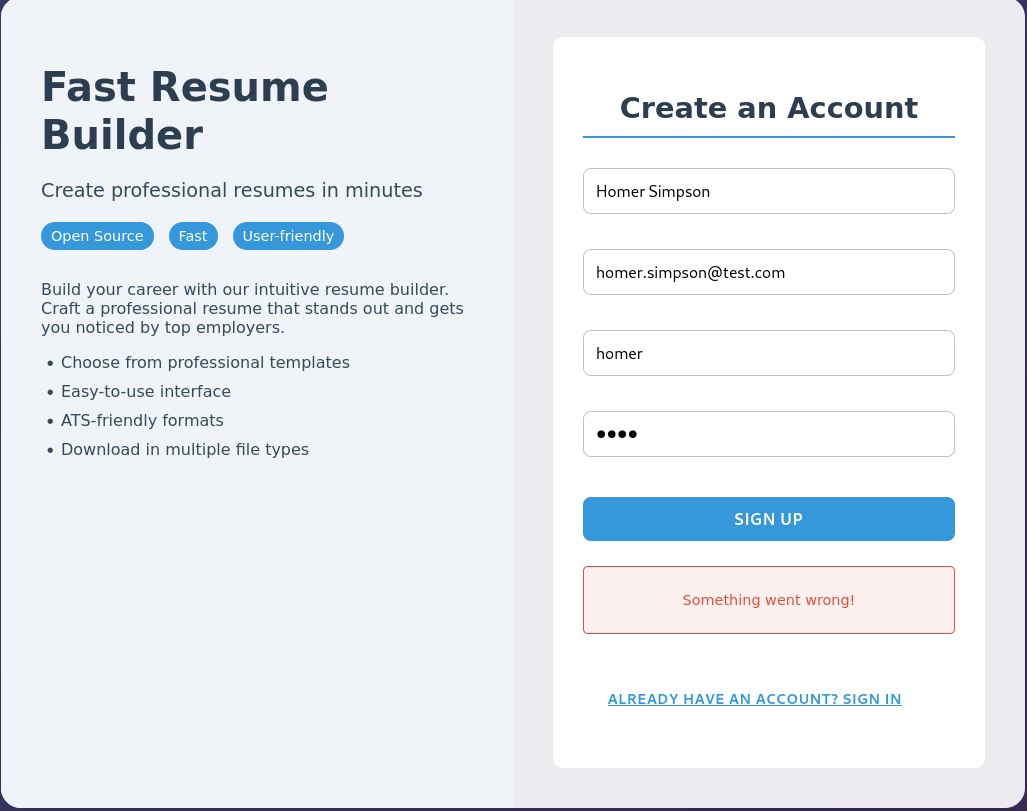
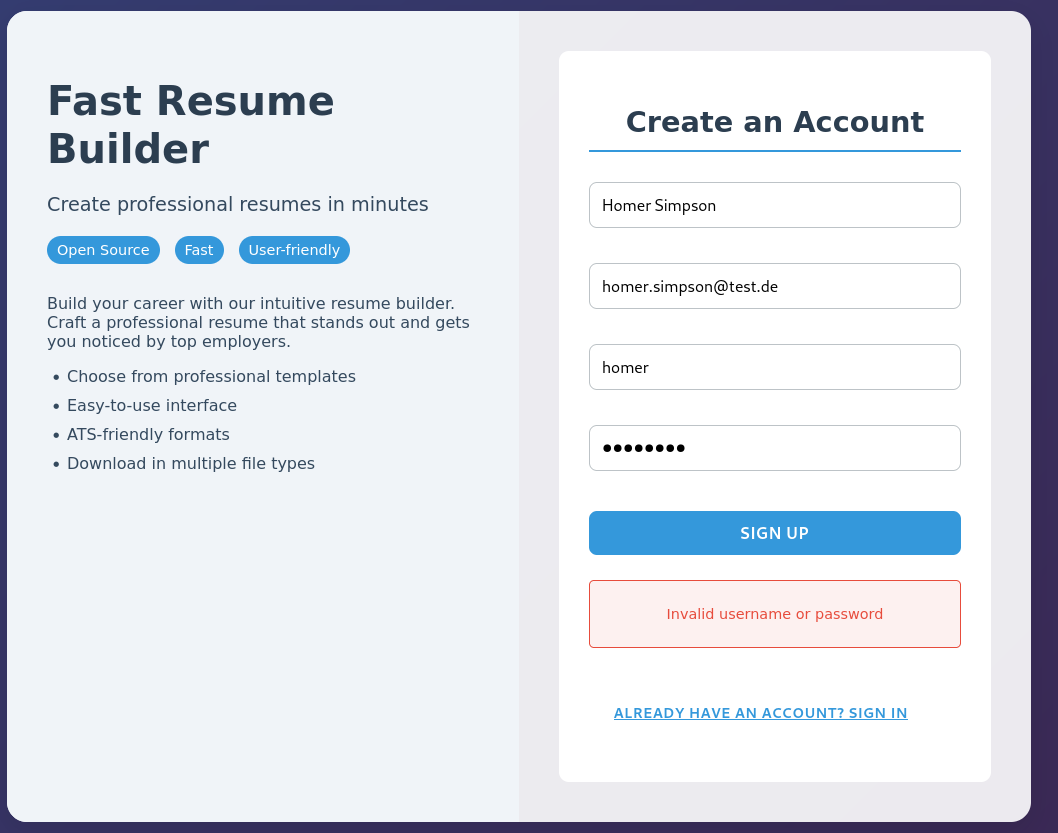
.

diff --git a/unterpunkte/subdomain.md b/unterpunkte/subdomain.md
@@ -1,0 +1,234 @@
+# Subdomain gefunden anhand von BurpSuite
+![img.png](../img/api-heal-htb.png)
+#### Dummheit
+Ich habe den api.heal.htb Pfad relativ früh bei BurpSuite bemerkt, jedoch habe
+ich total vergessen diesen in die /etc/hosts Datei einzutragen und habe mich dann
+viel zu lange mit allem anderen befasst und mich gewundert warum es nicht geht.
+Die genaue Anzahl an Stunden die ich damit verschwendet habe will ich nicht nennen xD
+---
+
+## Enumeration auf der Subdomain
+
+### Whatweb
+![img.png](../img/subdomain-whatweb.png)
+```
+Command:
+
+whatweb http://api.heal.htb
+```
+```
+Result:
+
+http://api.heal.htb [200 OK] 
+Country[RESERVED][ZZ],
+HTML5,
+HTTPServer[Ubuntu Linux][nginx/1.18.0 (Ubuntu)], 
+IP[10.10.11.46],
+Title[Ruby on Rails 7.1.4], 
+UncommonHeaders[
+    x-content-type-options,
+    x-permitted-cross-domain-policies,
+    referrer-policy,
+    x-request-id
+], 
+X-Frame-Options[SAMEORIGIN], 
+X-XSS-Protection[0], 
+nginx[1.18.0]
+```
+#### Neue Erkenntnisse:
+- API in Ruby mit dem Framework Rails geschrieben wurde in der Version 7.1.4
+
+---
+### Aufrufen der Subdomain
+![img_1.png](../img/subdomain-techstack.png)
+- Ruby version: ruby 3.3.5 (2024-09-03 revision ef084cc8f4) [x86_64-linux]
+- Rails version: 7.1.4
+---
+
+### Eigenen Account erstellt und Daten eingeben + als pdf exportieren
+![img.png](../img/after-login-site.png)
+![img.png](../img/export-as-pdf-button.png)
+
+![img.png](../img/subdomain-exports-path.png)
+
+```
+Request:
+
+{
+    "content":"\n      
+    <!DOCTYPE html>\n
+        <html>\n
+            <head>\n
+                <style>
+                    \n body {
+                        \n font-family: 'Roboto', sans-serif;
+                        \n color: #333;
+                        \n line-height: 1.6;
+                        \n background-color: #f9f9f9;
+                        \n padding: 20px;
+                        \n
+                    }
+
+                    \n .resume-container {
+                        \n max-width: 900px;
+                        \n margin: 50px auto;
+                        \n padding: 40px;
+                        \n background-color: #fff;
+                        \n box-shadow: 0 4px 10px rgba(0, 0, 0, 0.1);
+                        \n border-radius: 10px;
+                        \n
+                    }
+
+                    \n h1, h2 {
+                        \n color: #007bff;
+                        \n margin-bottom: 20px;
+                        \n
+                    }
+
+                    \n h1 {
+                        \n font-size: 2.5em;
+                        \n text-align: center;
+                        \n margin-bottom: 40px;
+                        \n
+                    }
+
+                    \n h2 {
+                        \n font-size: 1.5em;
+                        \n margin-top: 40px;
+                        \n
+                    }
+
+                    \n .section {
+                        \n margin-bottom: 30px;
+                        \n
+                    }
+
+                    \n .section p {
+                        \n margin: 5px 0;
+                        \n
+                    }
+
+                    \n .section p strong {
+                        \n color: #555;
+                        \n
+                    }
+
+                    \n .contact-info {
+                        \n text-align: center;
+                        \n margin-bottom: 40px;
+                        \n
+                    }
+
+                    \n .contact-info p {
+                        \n margin: 5px 0;
+                        \n font-size: 1.1em;
+                        \n
+                    }
+
+                    \n .contact-info p strong {
+                        \n color: #007bff;
+                        \n
+                    }
+
+                    \n .education-section, .experience-section {
+                        \n padding: 20px;
+                        \n background-color: #f1f1f1;
+                        \n border-radius: 5px;
+                        \n margin-bottom: 20px;
+                        \n
+                    }
+
+                    \n .education-section p, .experience-section p {
+                        \n margin: 10px 0;
+                        \n
+                    }
+
+                    \n        
+                </style>
+                \n
+            </head>
+            \n
+            <body>\n
+                <div class=\"resume-container\">\n 
+                    <h1>Homer</h1>\n 
+                    <p>Email: homer.simpson@test.de</p>\n 
+                    <p>Phone: 1337</p>\n 
+                    <h2>Education</h2>\n 
+                    \n
+                
+                    <div class=\"education-section\">\n 
+                        <p><strong>Institution:</strong> Harvard </p>\n 
+                        <p><strong>Role:</strong> Gramaar</p>\n
+                        <p><strong>Summary:</strong> I'm lernt lot here </p>\n
+                    </div>
+                
+                    \n \n
+                 
+                    <h2>Experience</h2>\n \n
+                    <div class=\"experience-section\">\n 
+                        <p><strong>Company:</strong> Super Amazing Company</p>\n 
+                        <p><strong>Role:</strong> Bestest at everything</p>\n 
+                        <p><strong>Summary:</strong> I ware bestest mployee the eva had.</p>\n
+                    </div>
+                
+                    \n \n
+                 
+                    <h2>Projects</h2>\n 
+                    <p>- test</p>\n 
+                
+                    <h2>Skills</h2>\n 
+                    <p>everything</p>\n 
+                
+                    <h2>Languages</h2>\n 
+                    <p>al oof them</p>\n
+                </div>
+            \n
+            </body>
+            \n
+        </html>\n    ",
+    "format":"pdf"
+}
+```
+
+```
+Response:
+
+{
+    "message":"PDF created successfully",
+    "filename":"411b67f9c828d4f0c156.pdf"
+}
+```
+---
+
+### Neue Interessante Pfade:
+#### OPTIONS http://api.heal.htb/download?filename=411b67f9c828d4f0c156.pdf
+#### POST http://api.heal.htb/exports
+
+Durch den Response der beiden kann ich im Header sehen, dass alle HTTP Verben erlaubt sind. <br>
+=> Ich versuche erstmal ob ich über eine LFI die <code>/etc/passwd</code> herunterladen kann.
+Vorgehen:
+- Über BurpSuite den Request an den Repeater senden und dort die Request manipulieren
+    - Header in GET ändern
+    - http://api.heal.htb/download?filename=/etc/passwd
+
+![img_1.png](../img/pdf-LFI-try.png)
+```
+{
+    "errors": "Invalid token"
+}
+```
+<strong>Hat nicht geklappt, weil er als Authentifizierung einen validen Token haben will <br>
+=> Ich brauche einen gültigen Token
+</strong>
+
+---
+#### Profil Seite:
+![img.png](../img/profile-button.png)
+
+
+#### Survey Seite:
+![img.png](../img/survey-site.png)
+![survey-error-site.png](../img/survey-error-site.png)
+=> weitere subdomain gefunden => wieder in die <code>/etc/hosts</code> einfügen, damit es aufgelöst werden kann
+
+![img.png](../img/survey-working.png)

diff --git a/unterpunkte/scanning.md b/unterpunkte/scanning.md
@@ -7,6 +7,7 @@ Nmap:
 Command zusammengebaut mit der Hilfe von: https://www.stationx.net/nmap-cheat-sheet/
 
 ---
+```
 ##### Nmap 7.95 scan initiated Thu Apr 24 06:11:59 2025 as: /usr/lib/nmap/nmap -sS -p- -sV -version-all -A -T4 -sC -vvv -oN nmap-scan.txt 10.10.11.46
 Nmap scan report for 10.10.11.46
 Host is up, received echo-reply ttl 63 (0.028s latency).
@@ -53,7 +54,7 @@ HOP RTT      ADDRESS
 Read data files from: /usr/share/nmap
 OS and Service detection performed. Please report any incorrect results at https://nmap.org/submit/ .
 #### Nmap done at Thu Apr 24 06:12:42 2025 -- 1 IP address (1 host up) scanned in 43.74 seconds
-
+```
 ---
 ### => Ergebnis:
 - Port 22 (ssh) offen
@@ -66,6 +67,14 @@ OS and Service detection performed. Please report any incorrect results at https
 # WhatWeb Scan
 ![img.png](../img/whatweb-scan.png)
 
+```
+Command:
+
+whatweb http://heal.htb
+```
+```
+Result:
+
 http://heal.htb [200 OK] 
 Country[RESERVED][ZZ],
 HTML5,
@@ -75,11 +84,13 @@ Script,
 Title[Heal],
 X-Powered-By[Express], 
 nginx[1.18.0]
+```
 ---
 
 
 # Nikto Scan
 ![img.png](../img/nikto-scan.png)
+```
 - Nikto v2.5.0
 ---------------------------------------------------------------------------
 + Target IP:          10.10.11.46
@@ -99,7 +110,7 @@ nginx[1.18.0]
 + End Time:           2025-04-24 13:07:07 (GMT-5) (784 seconds)
 ---------------------------------------------------------------------------
 + 1 host(s) tested
-
+```
 
 ---
 # Website Enumeration
@@ -107,7 +118,9 @@ nginx[1.18.0]
 Account erstellen:
 ![img.png](../img/signup.png)
 
-geht nicht:
+Ging anfangs nicht, weil ich vergessen hatte die IP einzutragen:
+<br>
+siehe [hier](./subdomain.md#dummheit)
 ![img_1.png](../img/signup-with-network.png)
 
 ## Subdomains fuzzen
@@ -123,15 +136,7 @@ command zusammengebaut von: https://cheatsheet.haax.fr/web-pentest/tools/ffuf/
 ![img.png](../img/burp-suite.png)
 
 ### Interessant weil dort Parameter zu sehen sind:
-### http://api.heal.htb/signin
 
-![img.png](api-heal-htb.png)
-Ich habe den api.heal.htb Pfad relativ früh bei BurpSuite bemerkt, jedoch habe
-ich total vergessen diesen in die /etc/hosts Datei einzutragen und habe mich dann 
-viel zu lange mit allem anderen befasst und mich gewundert warum es nicht geht. 
-Die genaue Anzahl an Stunden die ich damit verschwendet habe will ich nicht nennen xD
-
----
 ### GET   http://heal.htb/sockjs-node/info?t=1745497786739
 Aufruf: ![GET_param_1.png](../img/GET_param_1.png)
 
@@ -205,7 +210,11 @@ Weiter:
 - ausprobieren ob LFI möglich ist und ich so an mehr informationen herankomme
   ![img.png](../img/LFI_try.png)
 
+---
+### Subdomain: http://api.heal.htb/signin
+[Subdomain](./subdomain.md)
 
+---
 ### XSS
 - Nach sockjs cve gegoogelt und herausgefunden, dass es eine DoS und XSS Schwachstelle gibt: 
   - https://security.snyk.io/package/npm/sockjs

diff --git a/tools.md b/tools.md
@@ -3,3 +3,7 @@
 ### Website
 - JavaScript / Express
 - Nginx 1.18.0 (Ubuntu)
+
+### API
+- Ruby version: ruby 3.3.5 (2024-09-03 revision ef084cc8f4) [x86_64-linux]
+- Rails version: 7.1.4
